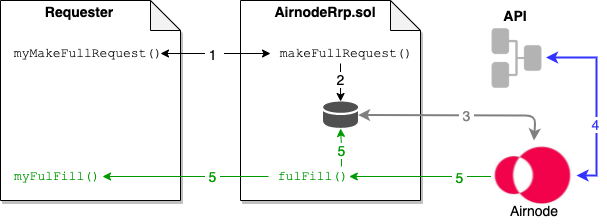
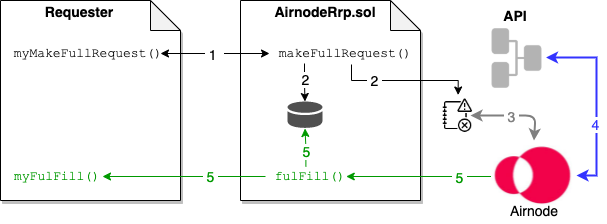
Image updates To reflect the proper relationships and differences when usin contract srtorage and event logs.

diff --git a/docs/airnode/next/concepts/request.md b/docs/airnode/next/concepts/request.md
@@ -10,11 +10,11 @@ title: Request
 A request is made, by a [requester](requester.md), to either the `makeFullRequest()` or `makeTemplateRequest()` functions of the [AirnodeRrp.sol](README.md#airnoderrp-sol) protocol contract which adds the request to its storage. The targeted off-chain [Airnode](airnode.md) gathers the request from AirnodeRrp.sol's storage and responds using the `fulFill()` function of AirnodeRrp.sol.
 
 >![concepts-request](../assets/images/concepts-request.png)
->1. <div style="color:black;max-width:600px;">The requester calls makeFullRequest() on the AirnodeRrp protocol contract.</div>
->2. <div style="color:black;max-width:600px;">makeFullRequest() assigns a requestId to the request for tracking purposes, records the request in storage and returns the requestId to the requester.</div>
->3. <div style="color:gray;max-width:600px;">Airnode, during its run cycle, picks the request from storage and verifies the hash of the requestId.</div>
->4. <div style="color:blue;max-width:600px;">Airnode gets data from the API.</div>
->5. <div style="color:green;max-width:600px;">Airnode sends the response to fulFill() in AirnodeRrp which in turn updates the request in storage and forwards the response to myFulFill(). The requestId is included as part of the response.</div>
+>1. <p style="color:black;max-width:600px;">The requester calls makeFullRequest() on the AirnodeRrp protocol contract.</p>
+>2. <p style="color:black;max-width:600px;">makeFullRequest() assigns a requestId to the request for tracking purposes, adds the requestId to storage, emits the request to the event logs and returns the requestId to the requester.</p>
+>3. <p style="color:gray;max-width:600px;">Airnode, during its run cycle, picks the request from the event logs.</p>
+>4. <p style="color:blue;max-width:600px;">Airnode gets data from the API.</p>
+>5. <p style="color:green;max-width:600px;">Airnode sends the response to fulFill() in AirnodeRrp which in turn removes the pending requestId from storage and forwards the response to myFulFill(). The requestId is included as part of the response.</p>
 
 Learn more on how to [Call an Airnode](../grp-developers/call-an-airnode.md).
 

diff --git a/docs/airnode/next/grp-developers/call-an-airnode.md b/docs/airnode/next/grp-developers/call-an-airnode.md
@@ -24,12 +24,12 @@ design patterns.
 Ignoring the mechanics of the overall process, the requester primarily focuses on two tasks as indicated by points A & B
 in the diagram below when calling an Airnode.
 
-- <span style="color:blue;">A</span>: Make the request
-- <span style="color:blue;">B</span>: Accept and decode the response
+- <span style="color:green;font-weight:bold;">1</span>: Make the request
+- <span style="color:blue;font-weight:bold;">2</span>: Accept and decode the response
 
 > ![request-flow](../assets/images/call-an-airnode.png)
->1. <div style="color:green;margin-top:30px;max-width:600px;">A requester makes a request to the AirnodeRrp.sol contract which places the request in storage. This request is retrieved by the Airnode during its next run cycle. It then verifies if the request is authorized by calling  authorizer contracts assigned to the Airnode, if any.</div>
->2. <div style="color:blue;max-width:600px;">If the request is authorized, Airnode proceeds to respond. It first gathers the requested data from the API and calls the `fulfill()` function in AirnodeRrp.sol, which updates the storage and then makes a callback to myFulfill. Gas costs associated with the response are covered by the sponsor of the requester.</div>
+>1. <p style="color:green;margin-top:30px;max-width:600px;">A requester makes a request to the AirnodeRrp contract which adds the requestId to storage, emits the request to the event logs and returns the requestId to the requester. The request is retrieved by the Airnode during its next run cycle. It then verifies the requester is authorized by checking authorizer contracts assigned to the Airnode.</p>
+>2. <p style="color:blue;max-width:600px;">If the request is authorized, Airnode proceeds to respond. It first gathers the requested data from the API and calls the <code>fulfill()</code> function in AirnodeRrp, which removes the pending requestId from storage and makes a callback to <code>myFulfill()</code>. Gas costs associated with the response are covered by the sponsor of the requester.</p>
 
 This remainder of this doc focuses on the requester implementation, it's deployment and sponsoring.
 

diff --git a/docs/airnode/next/grp-developers/README.md b/docs/airnode/next/grp-developers/README.md
@@ -8,9 +8,13 @@ A **Developer** is you, if you wish to consume off-chain data from APIs. You do 
 
 In summary you only need to do two things.
 
-- Call `makeRequest()` on the AirnodeRrp.sol contract which returns a [`requestId`](../concepts/request.md#requestid).
+- Call `makeFullRequest()` or `makeTemplateRequest()` on the AirnodeRrp.sol contract which returns a [`requestId`](../concepts/request.md#requestid).
 - Add a `myFulfill()` function (call it what you like) to your requester (your contract) where the off-chain Airnode can send the requested data when ready. The data includes the same `requestId` returned when the request was made.
 
-  > ![call](../assets/images/developer-overview.png)
+> ![call](../assets/images/developer-overview.png)
+>1. <p style="color:black;margin-top:30px;max-width:600px;">The requester (myContract.sol) makes a request to the RRP protocol contract (AirnodeRrp.sol) by calling `makeFullRequest()` which adds the request to the event logs and returns a requestId to the requester.</p>
+>2. <p style="color:black;margin-top:30px;max-width:600px;">Airnode retrieves the on-chain request from the event logs.</p>
+>3. <p style="color:green;margin-top:30px;max-width:600px;">Airnode gathers response data from the API specified in the request.</p>
+>4. <p style="color:blue;margin-top:30px;max-width:600px;">Airnode performs a callback to a named function `myFulfill()` in myContract.sol via the AirnodeRrp.sol function `fulfill()` with the requested data and the requestId.</p>
 
 For a more detailed diagram see the first image in the [Calling an Airnode](./call-an-airnode.md) doc.

diff --git a/docs/airnode/next/grp-providers/guides/build-an-airnode/configuring-airnode.md b/docs/airnode/next/grp-providers/guides/build-an-airnode/configuring-airnode.md
@@ -16,8 +16,10 @@ Be sure to complete  [API Integration](api-integration.md) before configuring yo
 An Airnode is deployed or redeployed using configuration values from its `config.json` and `secrets.env` files. The  `config.json` specifies the [OIS](../../../reference/specifications/ois.md) (Oracle Integration Specifications) and other specific configuration details. The `secrets.env` file holds secrets, such as API keys and chain provider URLs, which are referenced within the config.json file using interpolation.
 
 > ![config-json](../../../assets/images/config-json.png)
-
-The following example files will be useful while reading this doc.
+> - <p style="color:gray;margin-top:30px;max-width:600px;">The config.json file is used during the deployment/redeployment of an Airnode to configure its behavior and to provide mappings of API operations.</p>
+> - <p style="color:gray;margin-top:30px;max-width:600px;">The secrets.env file hold values for config.json that must be kept secret.</p>
+> - <p style="color:gray;margin-top:30px;max-width:600px;">The aws.json file holds credentails for deployments targeted to AWS Lambda.</p>
+> - <p style="color:gray;margin-top:30px;max-width:600px;">The following example files will be useful while reading this doc.</p>
 
 - [config.json](../../../reference/examples/config-json.md)
 - [secrets.env](../../../reference/examples/secrets-env.md)
